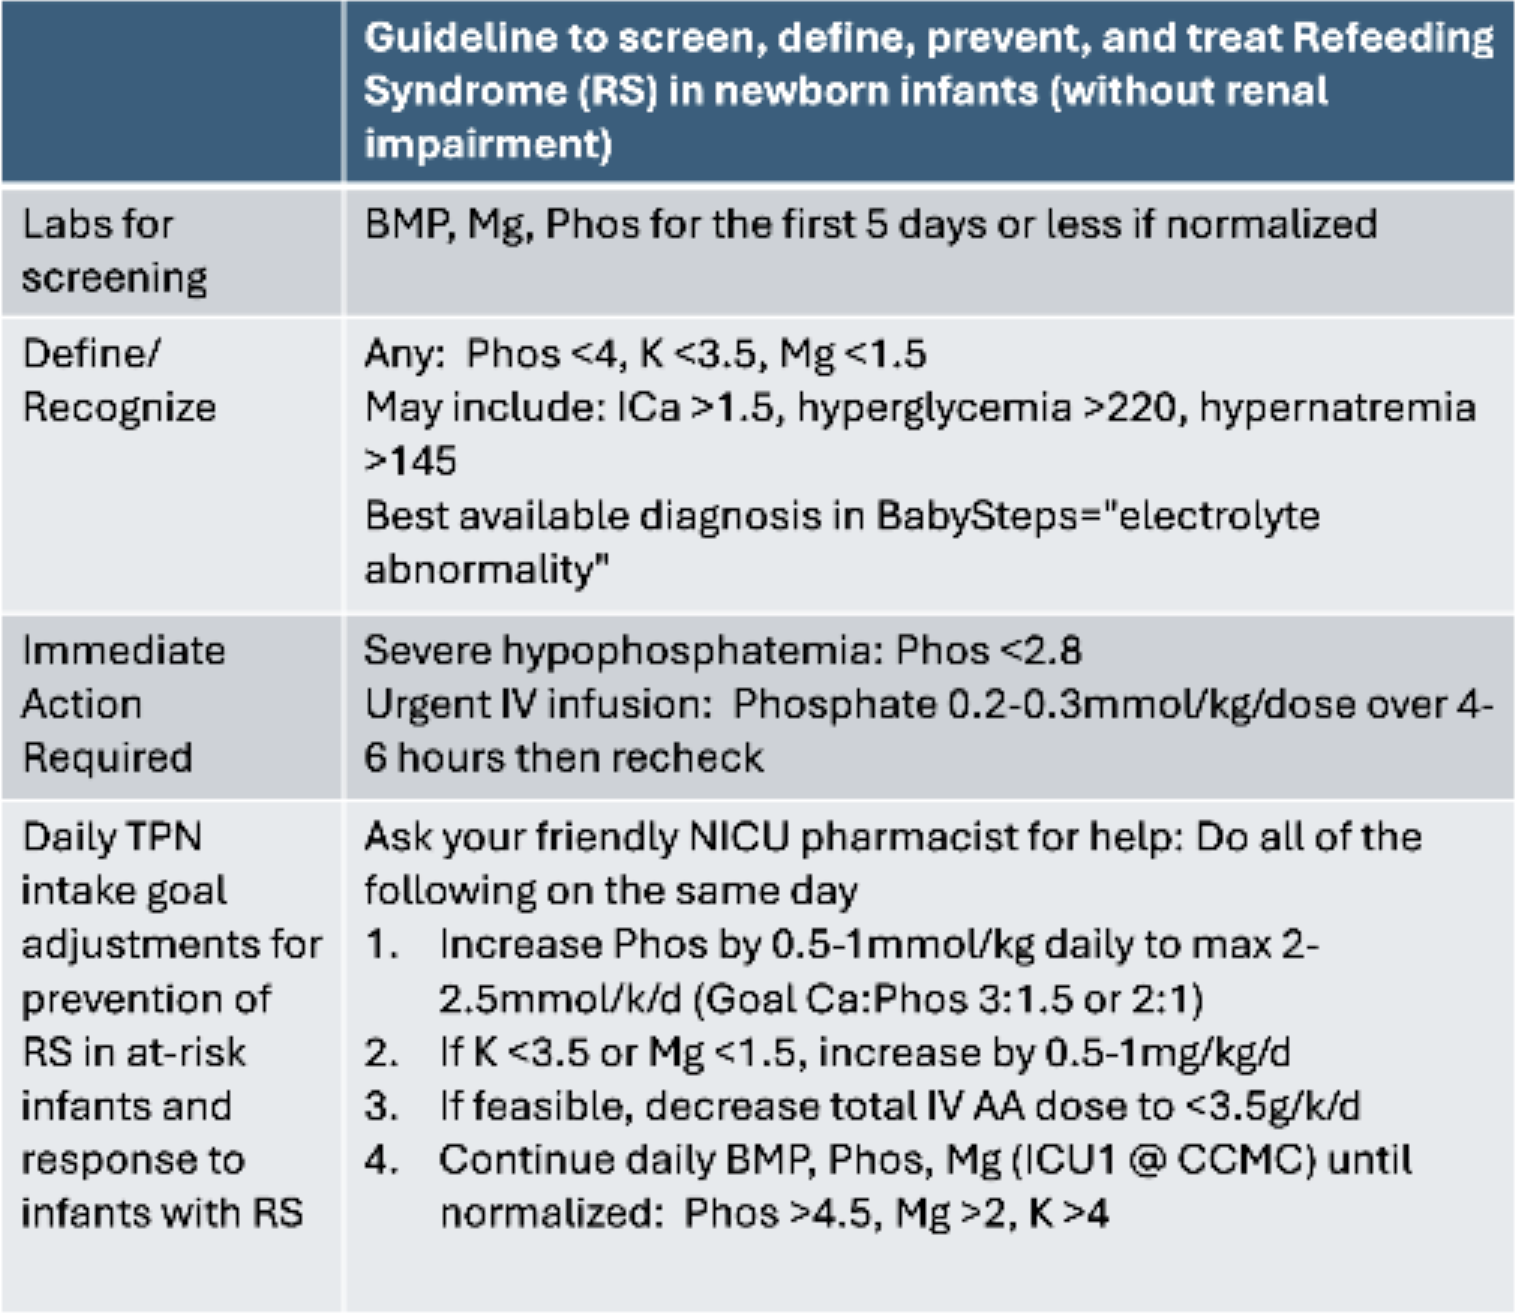
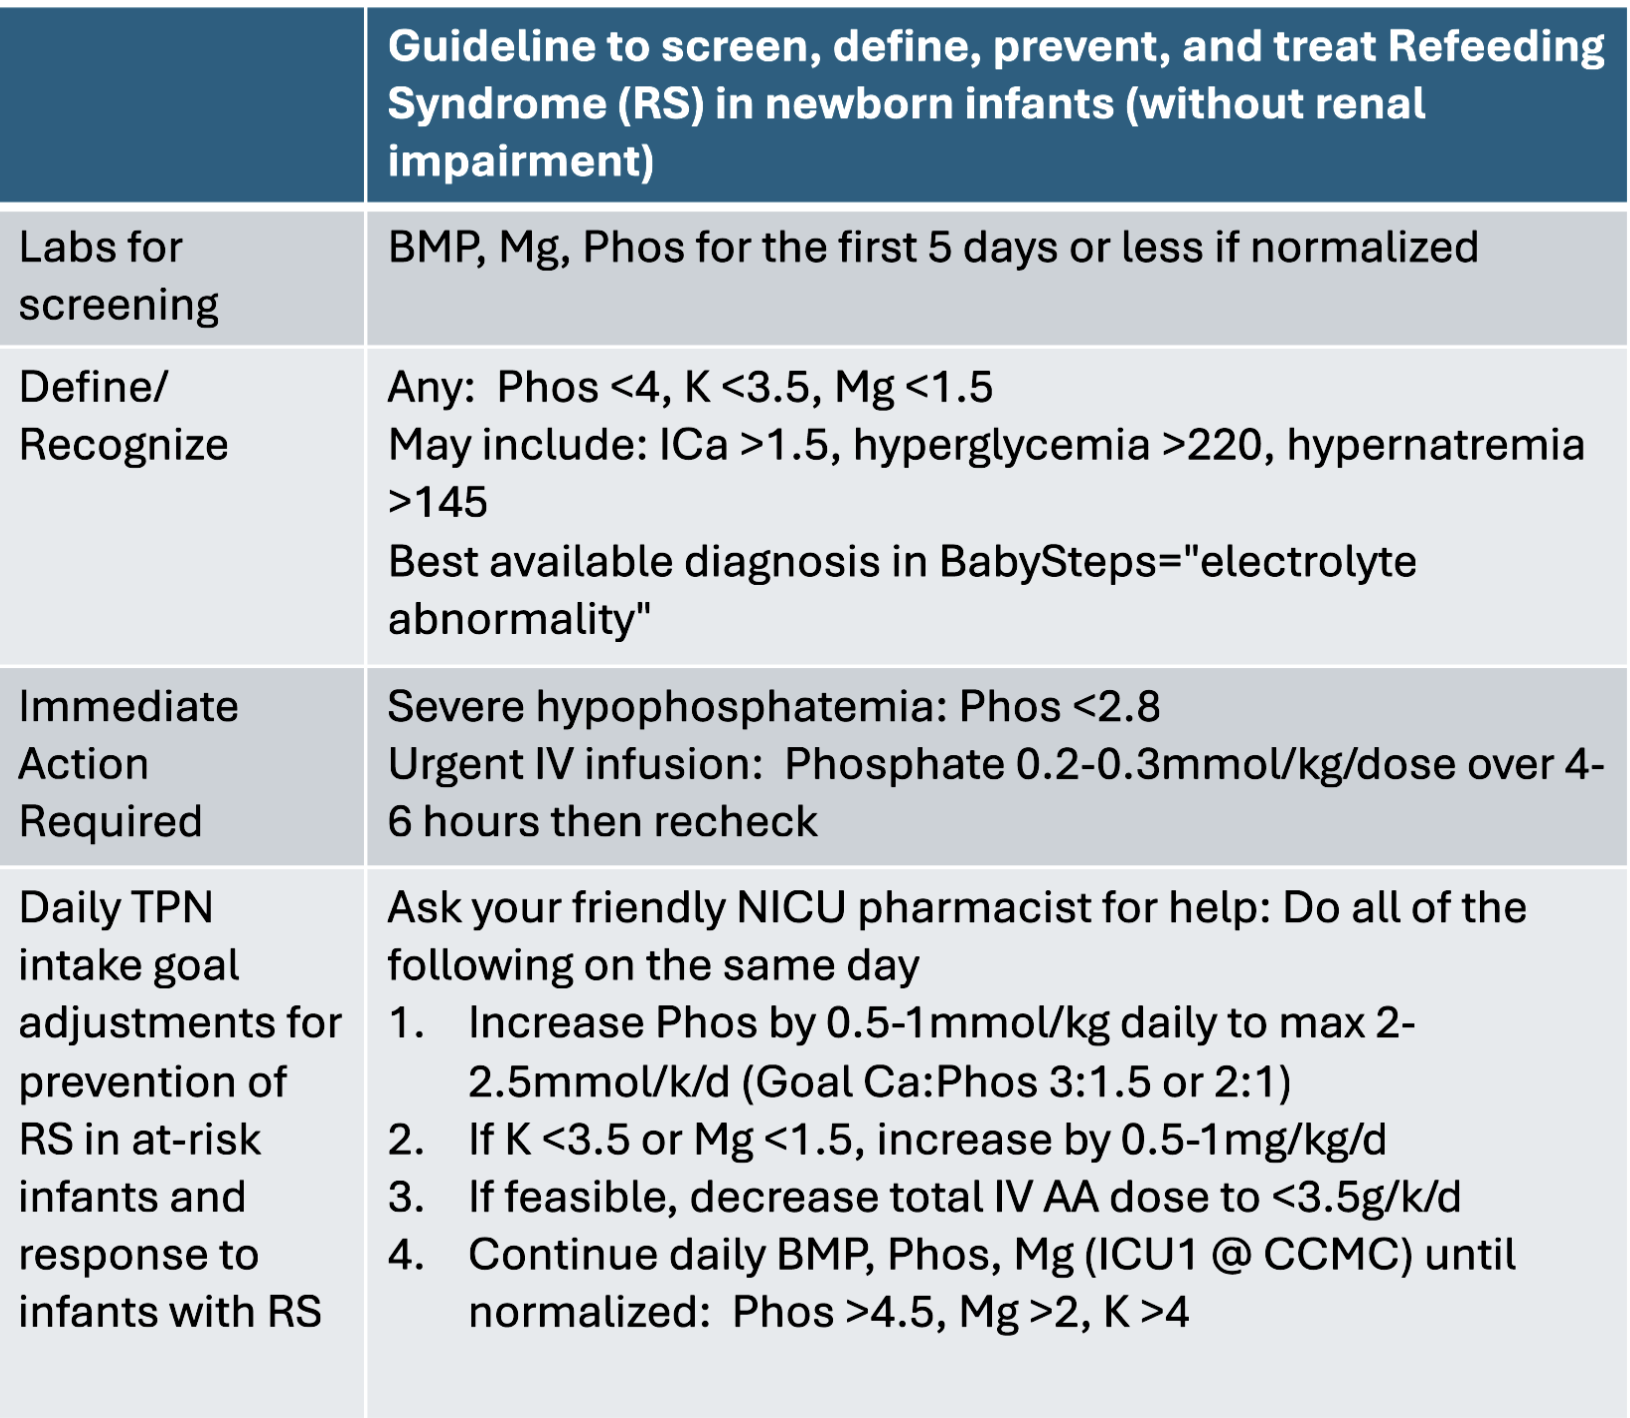
added defualt opening for panels, and more

Changed region(s): [[0.0, 0.0, 1.0, 0.9354], [0.0, 0.4677, 0.2172, 0.9354]]

diff --git a/src/VitaminsMinerals.js b/src/VitaminsMinerals.js
@@ -13,32 +13,32 @@ function VitaminsMinerals({ birthWeight }) {
       return (
         <ExpandablePanel title="Vitamins & Minerals">
             <div>
-            <ExpandablePanel title="EBM/DBM with Prolacta">
+            <ExpandablePanel title="EBM/DBM with Prolacta" defaultOpen={false}>
               <div>
               <p>Poly-vi-sol 0.5 mL BID<br></br>Fe 2-4 mg/kg/d<br></br>Begin DOL 14 and on full feeds</p>
               </div>
             </ExpandablePanel>
-            <ExpandablePanel title="EBM/DBM with HMF 1:25">
+            <ExpandablePanel title="EBM/DBM with HMF 1:25" defaultOpen={false}>
               <div>
               <p>D-vi-sol 400 IU<br></br>Fe 2-4 mg/kg/d<br></br>Begin DOL 14 and on full feeds</p>
               </div>
             </ExpandablePanel>
-            <ExpandablePanel title="Over 75% Preterm Formula">
+            <ExpandablePanel title="Over 75% Preterm Formula" defaultOpen={false}>
               <div>
               <p>May benefit from Fe 2-3 mg/kg/d<br></br>Begin DOL 14 and on full feeds</p>
               </div>
             </ExpandablePanel>
-            <ExpandablePanel title="EBM and SSC30 or PE30">
+            <ExpandablePanel title="EBM and SSC30 or PE30" defaultOpen={false}>
               <div>
               <p>Poly-vi-sol with Fe 1 mL/d<br></br>Begin DOL 14 and on full feeds</p>
               </div>
             </ExpandablePanel>
-            <ExpandablePanel title="EBM 1:50 or EBM/HMF 1:25 for D/C Regimen">
+            <ExpandablePanel title="EBM 1:50 or EBM/HMF 1:25 for D/C Regimen" defaultOpen={false}>
               <div>
               <p>Poly-vi-sol with Fe 1 mL/d<br></br>Begin DOL 14 and on full feeds</p>
               </div>
             </ExpandablePanel>
-            <ExpandablePanel title="Transitional Formula or EBM with Transitional Formula">
+            <ExpandablePanel title="Transitional Formula or EBM with Transitional Formula" defaultOpen={false}>
               <div>
               <p>Poly-vi-sol with Fe 1 mL/d
               <br></br>Vitamin D needs met (400IU/d) when
@@ -48,7 +48,7 @@ function VitaminsMinerals({ birthWeight }) {
               </p>
               </div>
             </ExpandablePanel>
-            <ExpandablePanel title="EBM and/or Term Formula">
+            <ExpandablePanel title="EBM and/or Term Formula" defaultOpen={false}>
               <div>
               <p dangerouslySetInnerHTML={{ __html: lastSentence(birthWeight) }}></p>
               </div>

diff --git a/src/PoorGrowth.js b/src/PoorGrowth.js
@@ -3,19 +3,21 @@ import ExpandablePanel from './ExpandablePanel';
 
 function PoorGrowth({ birthWeight }) {
 
-    const selectedImage = useMemo(() => {
-        if (birthWeight <= 1250) {
-            return '/images/PoorGrowth1250.png';
-        } else {
-            return '/images/PoorGrowth2200.png'
-        }
-      }, [birthWeight]);
 
       return (
         <ExpandablePanel title="Poor Growth">
             <div>
-                {(<img src={selectedImage} alt="Trophic Feeds" style={{ width: '476px', height: '267px' }} />)}
+                <ExpandablePanel title="HMF">
+                    {(<img src={"/images/PoorGrowth2200.png"} alt="Trophic Feeds" style={{ width: '476px', height: '267px' }} />)}
+                </ExpandablePanel>
             </div>
+            {birthWeight <= 1250 && (
+                <div>
+                    <ExpandablePanel title="Prolacta">
+                        {(<img src={'/images/PoorGrowth1250.png'} alt="Trophic Feeds" style={{ width: '476px', height: '267px' }} />)}
+                    </ExpandablePanel>
+                </div>
+            )}
         </ExpandablePanel>
       )
 }

diff --git a/src/SwitchDisplay.js b/src/SwitchDisplay.js
@@ -25,7 +25,7 @@ function SwitchDisplay({ label, onSwitchChange, parameters }) {
   const buttonClass = `switch-display-button ${isEnabled ? 'enabled' : ''} ${disabled ? 'disabled' : ''}`;
 
   // Determine the label text for "Refeeding Syndrome"
-  const isSGA = parameters.gestAgeDays && parameters.gestAgeDays < 36;
+  const isSGA = parameters.birthWeight >= 750 && parameters.gestAgeDays < 36;
   const displayLabel = label === "Refeeding Syndrome" && isSGA ? "Refeeding Syndrome (if SGA)" : label;
 
   return (
@@ -57,7 +57,7 @@ function shouldDisableSwitch(switchName, params) {
   if (switchName === "Fluid Restriction" && birthWeight >= 2200) {
     return true; // Disable switch under specific conditions
   }
-  if (switchName === "Refeeding Syndrome" && birthWeight >= 750) {
+  if (switchName === "Refeeding Syndrome" && (gestAgeDays >= 36 && birthWeight >= 750)) {
     return true; // Disable switch under specific conditions
   }
   return false; // By default, switches are enabled

diff --git a/src/ExpandablePanel.js b/src/ExpandablePanel.js
@@ -1,12 +1,17 @@
-import React, { useState } from 'react';
+import React, { useState, useEffect } from 'react';
 import './ExpandablePanel.css';
 
-function ExpandablePanel({ title, children }) {
-  const [isOpen, setIsOpen] = useState(false);
+function ExpandablePanel({ title, children, defaultOpen = true }) {
+  const [isOpen, setIsOpen] = useState(defaultOpen);
 
   const togglePanel = () => {
     setIsOpen(!isOpen);
   };
+
+  // Optional: Effect to handle prop changes, if you need to allow external control to reset the open state
+  useEffect(() => {
+    setIsOpen(defaultOpen);
+  }, [defaultOpen]);
 
   return (
     <div className="expandable-panel">

diff --git a/src/RefeedingSyndrome.js b/src/RefeedingSyndrome.js
@@ -6,7 +6,7 @@ function RefeedingSyndrome({ birthWeight }) {
       return (
         <ExpandablePanel title="Refeeding Syndrome">
             <div>
-                {(<img src={'/images/RefeedingSyndromeImage.png'} alt="Trophic Feeds" style={{ width: '476px', height: '267px' }} />)}
+                {(<img src={'/images/RefeedingSyndromeImage.png'} alt="Trophic Feeds" style={{ width: '476px', height: '367px' }} />)}
             </div>
         </ExpandablePanel>
       )

diff --git a/src/App.js b/src/App.js
@@ -21,6 +21,7 @@ function App() {
     gestAgeDays: '',
     birthWeight: ''
   });
+  
   const [switches, setSwitches] = useState({
     "Malnutrition Calc": false,
     "Early NPO or trophic feeds + TPN": false,

diff --git a/src/ParameterForm.js b/src/ParameterForm.js
@@ -41,7 +41,7 @@ function ParameterForm({ onParametersSubmit }) {
             setIsLessThan36Weeks(false);
           }}
         />
-        &gt;/= 36w
+        &gt;/=36w
       </label>
 
       <input
